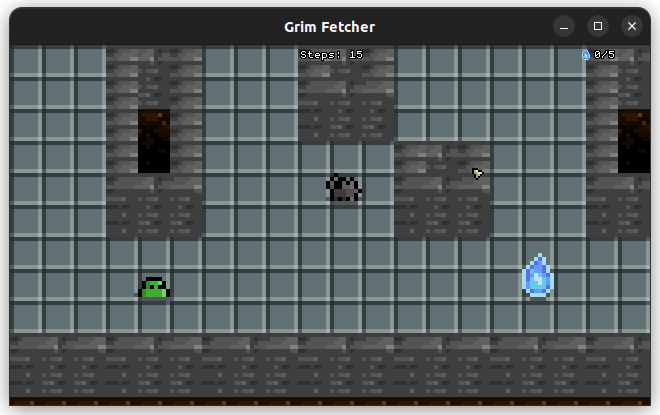
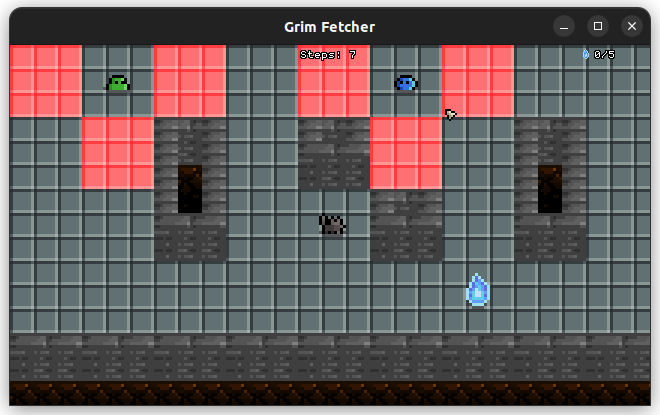
Slime movement fix

diff --git a/src/movement.c b/src/movement.c
@@ -29,6 +29,7 @@ void move_slimes(long dt)
     t_cell      *slime;
 
     ms += dt;
+    rng += (int)get_time();
     i = 0;
     slime = 0;
     while (man.map.cells[i].symbol)
@@ -47,21 +48,21 @@ void move_slimes(long dt)
                 }
                 ++j;
             }
-            if (man.player.steps && ms >= 2000 && j == 4)
+            if (man.player.steps && ms >= 1000 && j == 4)
                 move_slime(slime, get_move(slime, &rng));
         }
         ++i;
     }
-    if (ms >= 2000)
-        ms -= 2000;
+    if (ms >= 1000)
+        ms -= 1000;
     return;
 }
 
 static t_ivec2 get_move(t_cell *cell, int *rng)
 {
-    t_ivec2 allowed[4];
     size_t  i;
     size_t  j;
+    t_ivec2 allowed[4];
     t_ivec2 move;
 
     i = 0;
@@ -80,8 +81,8 @@ static t_ivec2 get_move(t_cell *cell, int *rng)
         set_ivec2(&move, 0, 0);
     else
     {
-        *rng = rng_minmax(rng, 1, 100);
-        set_ivec2(&move, allowed[*rng % i].x, allowed[*rng % i].y);
+        j = rng_minmax(rng, 1, 100);
+        set_ivec2(&move, allowed[j % i].x, allowed[j % i].y);
     }
     return move;
 }

diff --git a/include/grim_fetcher.h b/include/grim_fetcher.h
@@ -241,6 +241,7 @@ void       clear_drawing(t_frame *f, GLubyte alpha);
 void       save_drawing(t_frame* f);
 void       render(void);
 long       get_delta_time(void);
+long       get_time(void);
 int        game_over_screen(void);
 t_spr      *get_sprite(char *id);
 t_spr      *get_spr_by_symbol(char symbol);

diff --git a/src/utils/time.c b/src/utils/time.c
@@ -1,8 +1,6 @@
 #include "grim_fetcher.h"
 #include <sys/time.h>
 
-static long get_time(void);
-
 long get_delta_time(void)
 {
     static long time;
@@ -17,7 +15,7 @@ long get_delta_time(void)
     return dt;
 }
 
-static long get_time(void)
+long get_time(void)
 {
     struct timeval tv;
 
